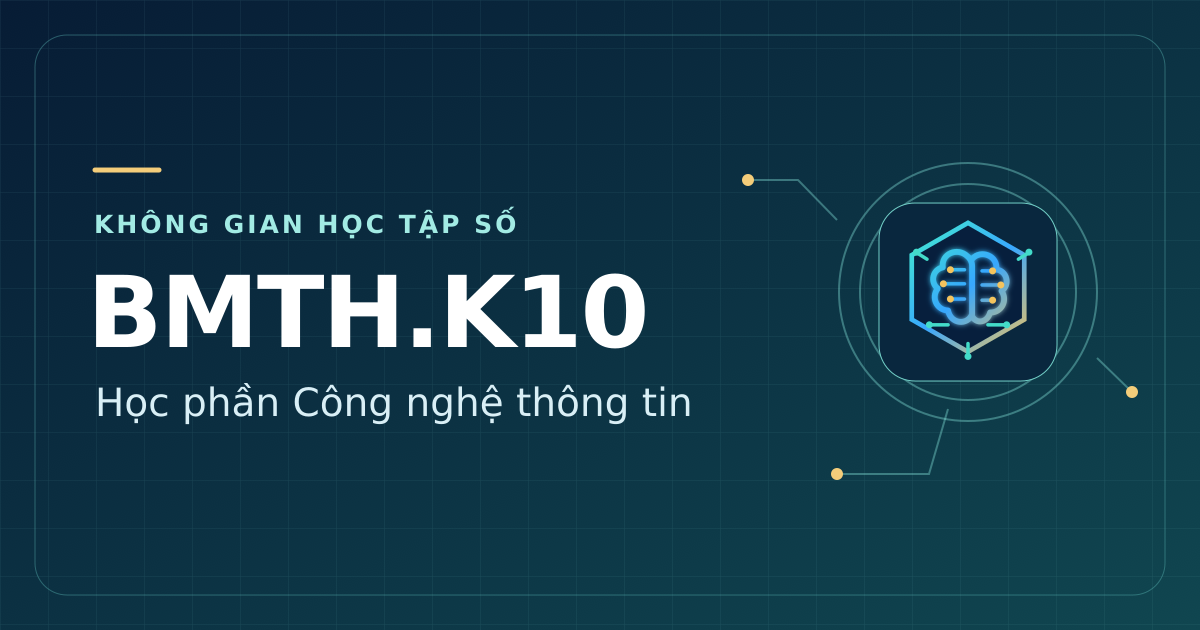
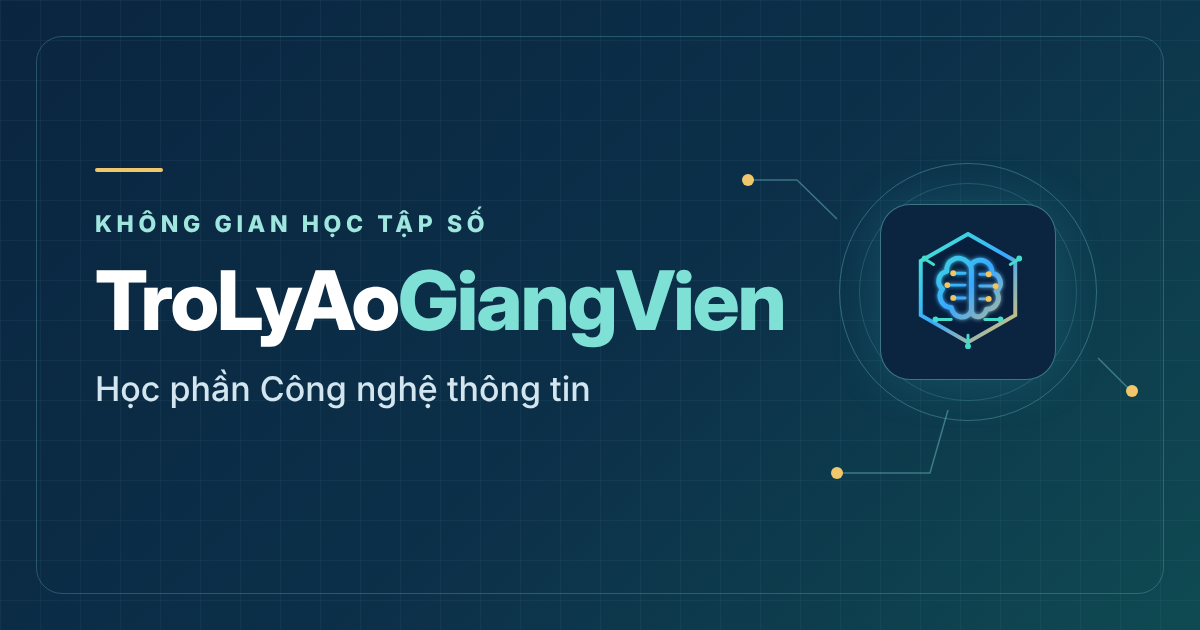
Thống nhất tên gọi TroLyAoGiangVien
- Đổi tên hiển thị TroLyGiangVien thành TroLyAoGiangVien trên trang chủ, trang trắc nghiệm, trang quản trị và config.js
- Làm lại ảnh chia sẻ (thay chữ BMTH.K10), thêm tham số phiên bản để mạng xã hội tải ảnh mới
- Giữ tên trang trên một dòng; màn hình rất hẹp thì nút "Toàn cảnh" chỉ còn biểu tượng

Claude-Session: https://claude.ai/code/session_0159512JJbcn4pjHj5NyGCpa

diff --git a/index.html b/index.html
@@ -4,30 +4,30 @@
 <head>
   <meta charset="utf-8">
   <meta name="viewport" content="width=device-width, initial-scale=1, viewport-fit=cover">
-  <meta name="description" content="Không gian học tập số TroLyGiangVien dành cho học phần Công nghệ thông tin.">
+  <meta name="description" content="Không gian học tập số TroLyAoGiangVien dành cho học phần Công nghệ thông tin.">
   <meta name="theme-color" content="#061b35">
   <meta property="og:type" content="website">
   <meta property="og:locale" content="vi_VN">
-  <meta property="og:site_name" content="TroLyGiangVien">
-  <meta property="og:title" content="TroLyGiangVien · Học phần Công nghệ thông tin">
+  <meta property="og:site_name" content="TroLyAoGiangVien">
+  <meta property="og:title" content="TroLyAoGiangVien · Học phần Công nghệ thông tin">
   <meta property="og:description" content="Bài giảng 5 chủ đề Công nghệ thông tin, trợ lý AI hỗ trợ học tập và chức năng tự kiểm tra kiến thức.">
   <meta property="og:url" content="https://ccongpho-dotcom.github.io/TroLyAoGiangVien/">
-  <meta property="og:image" content="https://ccongpho-dotcom.github.io/TroLyAoGiangVien/assets/bmth-share.png">
+  <meta property="og:image" content="https://ccongpho-dotcom.github.io/TroLyAoGiangVien/assets/bmth-share.png?v=20261121">
   <meta property="og:image:type" content="image/png">
   <meta property="og:image:width" content="1200">
   <meta property="og:image:height" content="630">
   <meta property="og:image:alt" content="Biểu trưng học phần Công nghệ thông tin trên nền xanh">
-  <title>TroLyGiangVien</title>
+  <title>TroLyAoGiangVien</title>
   <link rel="icon" type="image/svg+xml" href="assets/ai-digital-logo.svg">
-  <link rel="stylesheet" href="assets/styles.css?v=20261121-fix2">
+  <link rel="stylesheet" href="assets/styles.css?v=20261121-fix3">
 </head>
 <body>
   <div class="reading-progress" aria-hidden="true"><span id="reading-progress-bar"></span></div>
   <header class="site-header">
-    <a class="brand" href="#top" aria-label="Trang chủ TroLyGiangVien">
+    <a class="brand" href="#top" aria-label="Trang chủ TroLyAoGiangVien">
       <img src="assets/ai-digital-logo.svg" alt="Logo trí tuệ nhân tạo và chuyển đổi số" width="62" height="62">
       <span class="brand-copy">
-        <strong>TroLyGiangVien</strong>
+        <strong>TroLyAoGiangVien</strong>
         <small>HỌC PHẦN CÔNG NGHỆ THÔNG TIN</small>
       </span>
     </a>
@@ -85,7 +85,7 @@
 
   <footer class="site-footer">
     <div>
-      <strong>TroLyGiangVien</strong>
+      <strong>TroLyAoGiangVien</strong>
       <span>Học tập chủ động · Khai thác công nghệ an toàn · Sáng tạo có trách nhiệm</span>
     </div>
     <p>© <span id="current-year"></span> Học phần Công nghệ thông tin</p>
@@ -100,11 +100,11 @@
     <span class="chat-label">Hỏi trợ lý AI</span>
   </button>
 
-  <section id="chat-panel" class="chat-panel" aria-label="Trợ lý AI TroLyGiangVien" aria-hidden="true" inert>
+  <section id="chat-panel" class="chat-panel" aria-label="Trợ lý AI TroLyAoGiangVien" aria-hidden="true" inert>
     <header class="chat-header">
       <div class="chat-avatar"><img src="assets/ai-digital-logo.svg" alt=""></div>
       <div>
-        <strong>TroLyGiangVien</strong>
+        <strong>TroLyAoGiangVien</strong>
         <span id="chat-status" class="chat-status" data-state="ready" aria-live="polite">Sẵn sàng hỗ trợ học tập</span>
       </div>
       <div class="chat-header-actions">
@@ -135,7 +135,7 @@
 
   <div id="toast" class="toast" role="status" aria-live="polite"></div>
 
-  <script src="config.js?v=20261121-fix2"></script>
+  <script src="config.js?v=20261121-fix3"></script>
   <script src="data/topics.js?v=20261121-fix2"></script>
   <script src="data/media.js?v=20261119-open90"></script>
   <script src="data/faq.js?v=20261119-open90"></script>

diff --git a/quiz.html b/quiz.html
@@ -3,17 +3,17 @@
 <head>
   <meta charset="utf-8">
   <meta name="viewport" content="width=device-width, initial-scale=1, viewport-fit=cover">
-  <meta name="description" content="Tự kiểm tra kiến thức học phần Công nghệ thông tin TroLyGiangVien.">
+  <meta name="description" content="Tự kiểm tra kiến thức học phần Công nghệ thông tin TroLyAoGiangVien.">
   <meta name="theme-color" content="#061b35">
   <meta property="og:type" content="website">
   <meta property="og:locale" content="vi_VN">
-  <meta property="og:site_name" content="TroLyGiangVien">
-  <meta property="og:title" content="Tự kiểm tra kiến thức · TroLyGiangVien">
+  <meta property="og:site_name" content="TroLyAoGiangVien">
+  <meta property="og:title" content="Tự kiểm tra kiến thức · TroLyAoGiangVien">
   <meta property="og:description" content="Ôn tập và tự kiểm tra kiến thức theo 5 chủ đề Công nghệ thông tin.">
   <meta property="og:url" content="https://ccongpho-dotcom.github.io/TroLyAoGiangVien/quiz.html">
-  <meta property="og:image" content="https://ccongpho-dotcom.github.io/TroLyAoGiangVien/assets/bmth-share.png">
+  <meta property="og:image" content="https://ccongpho-dotcom.github.io/TroLyAoGiangVien/assets/bmth-share.png?v=20261121">
   <meta property="og:image:alt" content="Biểu trưng học phần Công nghệ thông tin trên nền xanh">
-  <title>Tự kiểm tra kiến thức | TroLyGiangVien</title>
+  <title>Tự kiểm tra kiến thức | TroLyAoGiangVien</title>
   <link rel="icon" type="image/svg+xml" href="assets/ai-digital-logo.svg">
   <link rel="stylesheet" href="assets/quiz.css?v=20261121-fix1">
 </head>
@@ -21,7 +21,7 @@
   <header class="quiz-topbar">
     <a class="quiz-brand" href="index.html">
       <img src="assets/ai-digital-logo.svg" alt="" width="48" height="48">
-      <span><strong>TroLyGiangVien</strong><small>TỰ KIỂM TRA KIẾN THỨC</small></span>
+      <span><strong>TroLyAoGiangVien</strong><small>TỰ KIỂM TRA KIẾN THỨC</small></span>
     </a>
     <a class="back-link" href="index.html">← Về bài giảng</a>
   </header>
@@ -117,8 +117,8 @@
     </section>
   </main>
 
-  <footer class="quiz-footer">TroLyGiangVien · Tự học chủ động · Đánh giá trung thực</footer>
-  <script src="config.js?v=20261121-fix2"></script>
+  <footer class="quiz-footer">TroLyAoGiangVien · Tự học chủ động · Đánh giá trung thực</footer>
+  <script src="config.js?v=20261121-fix3"></script>
   <script src="data/topics.js?v=20261121-fix2"></script>
   <script src="assets/quiz.js?v=20261121-fix1"></script>
 </body>

diff --git a/admin.html b/admin.html
@@ -5,7 +5,7 @@
   <meta name="viewport" content="width=device-width, initial-scale=1, viewport-fit=cover">
   <meta name="theme-color" content="#061b35">
   <meta name="robots" content="noindex, nofollow">
-  <title>Quản trị câu hỏi | TroLyGiangVien</title>
+  <title>Quản trị câu hỏi | TroLyAoGiangVien</title>
   <link rel="icon" type="image/svg+xml" href="assets/ai-digital-logo.svg">
   <link rel="stylesheet" href="assets/quiz.css?v=20261121-troly-ui1">
 </head>
@@ -13,7 +13,7 @@
   <header class="quiz-topbar">
     <a class="quiz-brand" href="index.html">
       <img src="assets/ai-digital-logo.svg" alt="" width="48" height="48">
-      <span><strong>TroLyGiangVien</strong><small>QUẢN TRỊ CÂU HỎI</small></span>
+      <span><strong>TroLyAoGiangVien</strong><small>QUẢN TRỊ CÂU HỎI</small></span>
     </a>
     <a class="back-link" href="index.html">← Về website</a>
   </header>
@@ -93,7 +93,7 @@
     </form>
   </dialog>
 
-  <script src="config.js?v=20261121-troly-ui1"></script>
+  <script src="config.js?v=20261121-fix3"></script>
   <script src="data/topics.js?v=20261119-open90-pause"></script>
   <script src="assets/admin.js?v=20261119-open90-pause"></script>
 </body>

diff --git a/assets/styles.css b/assets/styles.css
@@ -588,4 +588,10 @@ html.overview-mode .view-mode-toggle {
   html:not(.overview-mode) .brand-copy strong { font-size: .82rem; letter-spacing: .055em; }
   html:not(.overview-mode) .view-mode-toggle { gap: 4px; padding-inline: 6px; font-size: .66rem; }
   html:not(.overview-mode) .view-mode-toggle svg { width: 14px; }
+  /* Màn hình rất hẹp: nút "Toàn cảnh" chỉ còn biểu tượng để tên trang không bị ngắt. */
+  html:not(.overview-mode) .brand-copy strong { font-size: .84rem; letter-spacing: 0; }
+  html:not(.overview-mode) .view-mode-toggle { width: 44px; padding: 0; }
+  html:not(.overview-mode) .view-mode-toggle span { position: absolute; width: 1px; height: 1px; overflow: hidden; clip: rect(0 0 0 0); white-space: nowrap; }
 }
+/* Tên trang luôn nằm trọn một dòng, không ngắt giữa chữ. */
+.brand-copy strong { overflow-wrap: normal !important; white-space: nowrap; }

diff --git a/config.js b/config.js
@@ -1,5 +1,5 @@
 window.BMTH_CONFIG = {
-  "siteName": "TroLyGiangVien",
+  "siteName": "TroLyAoGiangVien",
   "dataVersion": "BMTH-OPEN-90P-20261119",
   "chatApiUrl": "https://bmth-k10-chatbot.ccongpho.workers.dev/",
   "quizApiUrl": "https://bmth-k10-quiz.ccongpho.workers.dev",
